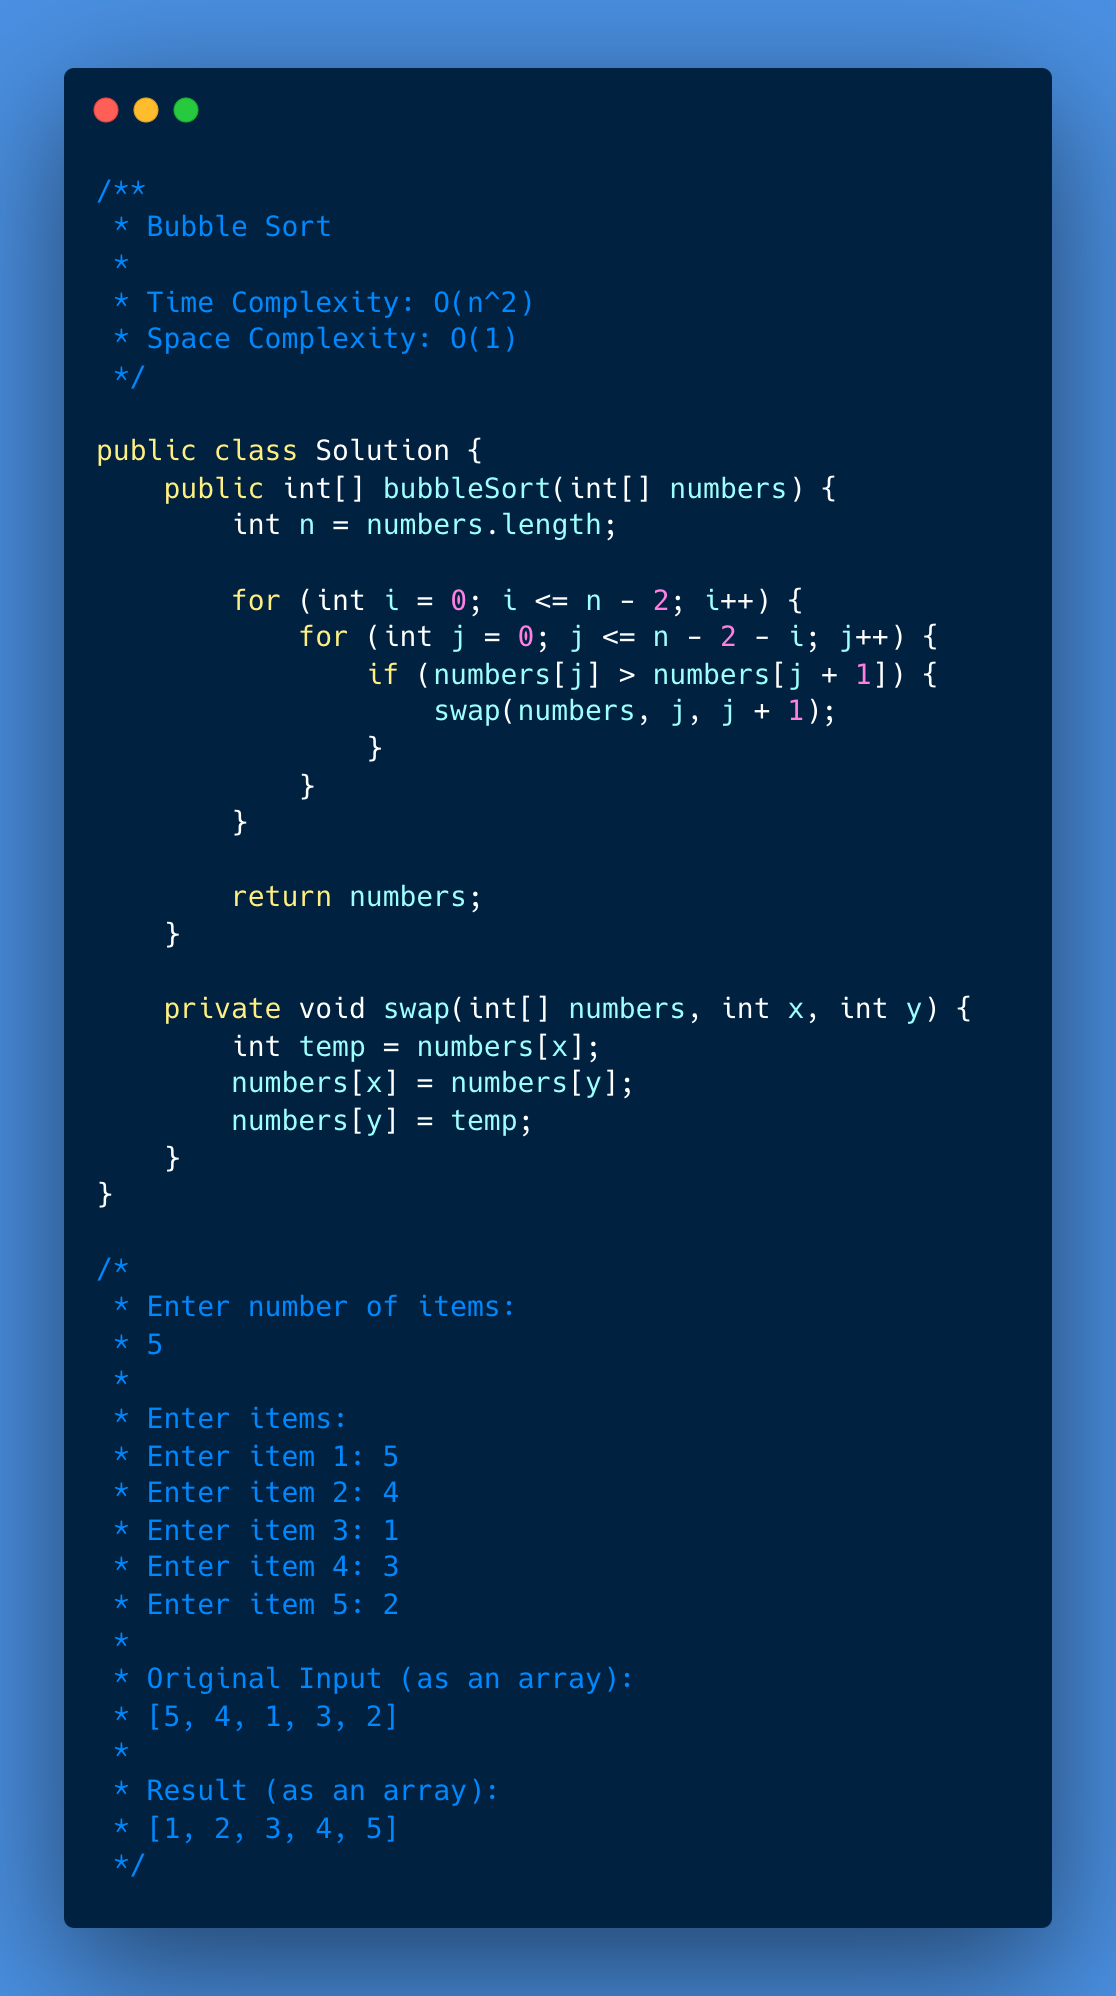
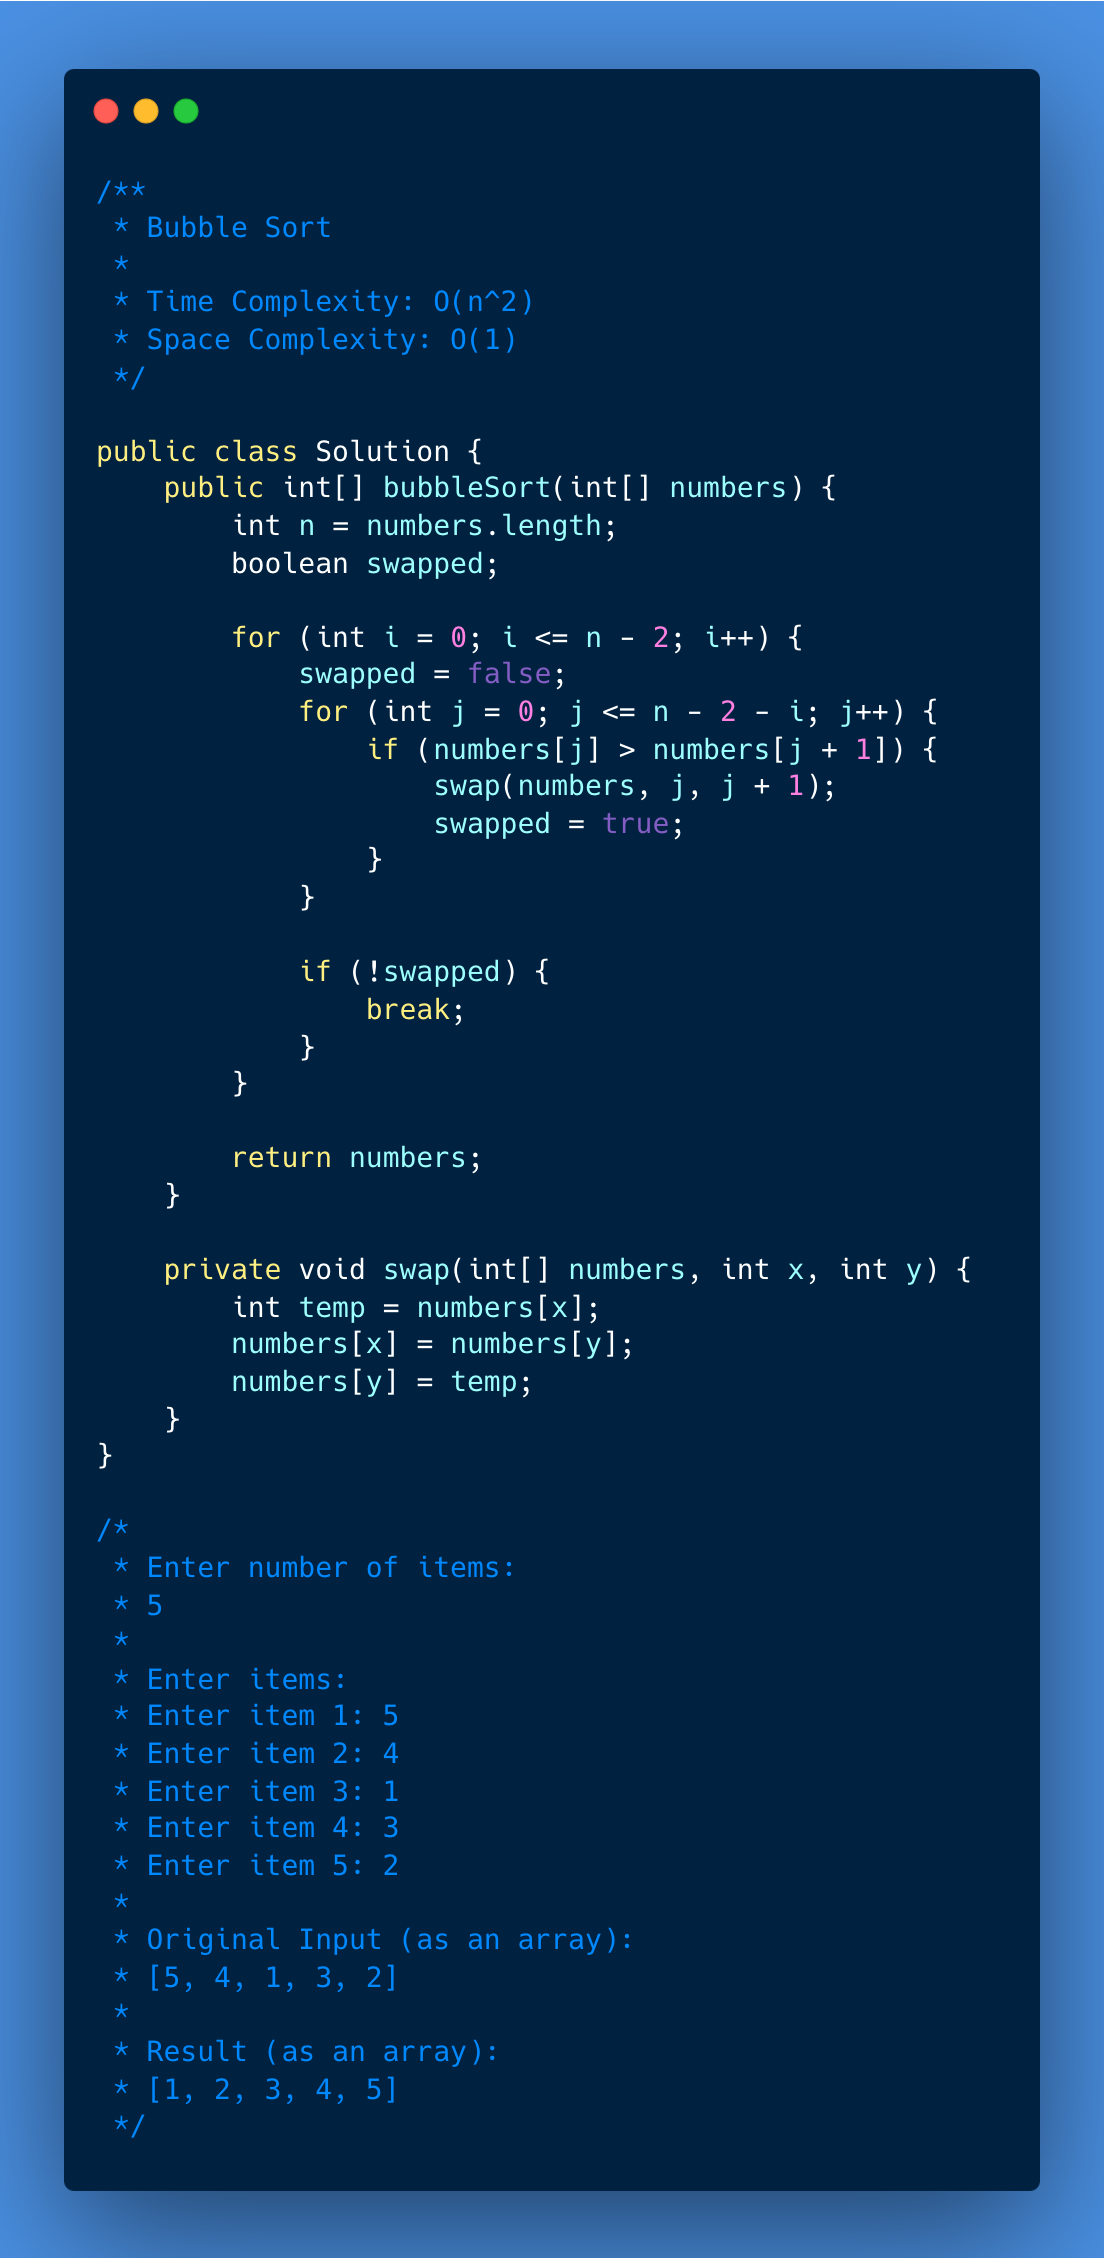
swapped variable to break early if already sorted

diff --git a/051-bubble-sort/001-solution/Solution.java b/051-bubble-sort/001-solution/Solution.java
@@ -8,12 +8,19 @@
 public class Solution {
     public int[] bubbleSort(int[] numbers) {
         int n = numbers.length;
+        boolean swapped;
 
         for (int i = 0; i <= n - 2; i++) {
+            swapped = false;
             for (int j = 0; j <= n - 2 - i; j++) {
                 if (numbers[j] > numbers[j + 1]) {
                     swap(numbers, j, j + 1);
+                    swapped = true;
                 }
+            }
+
+            if (!swapped) {
+                break;
             }
         }
 
